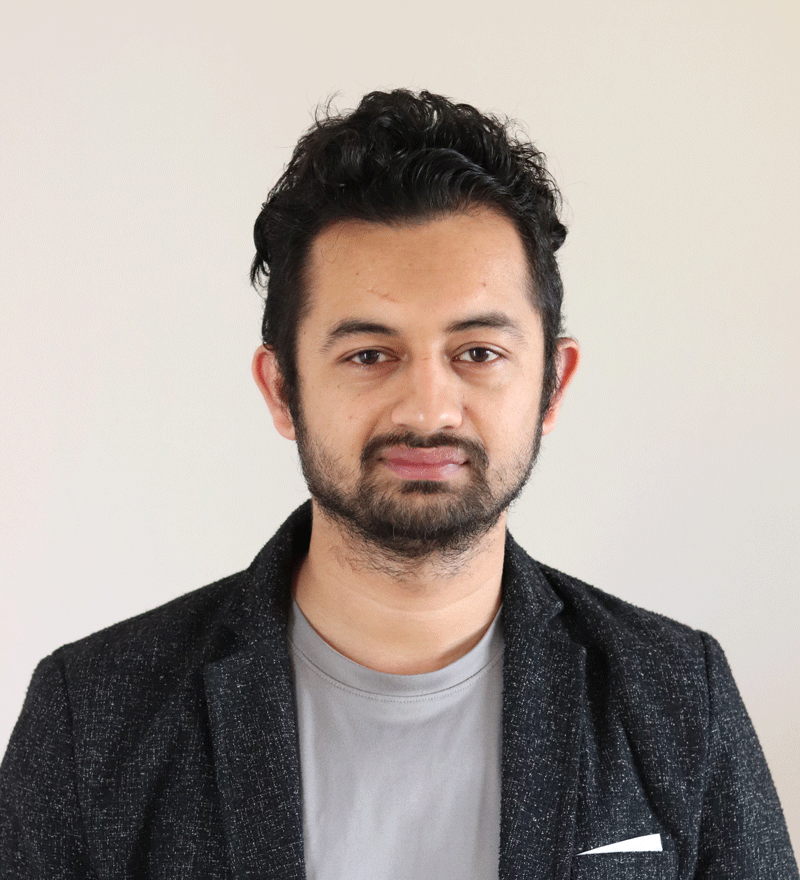
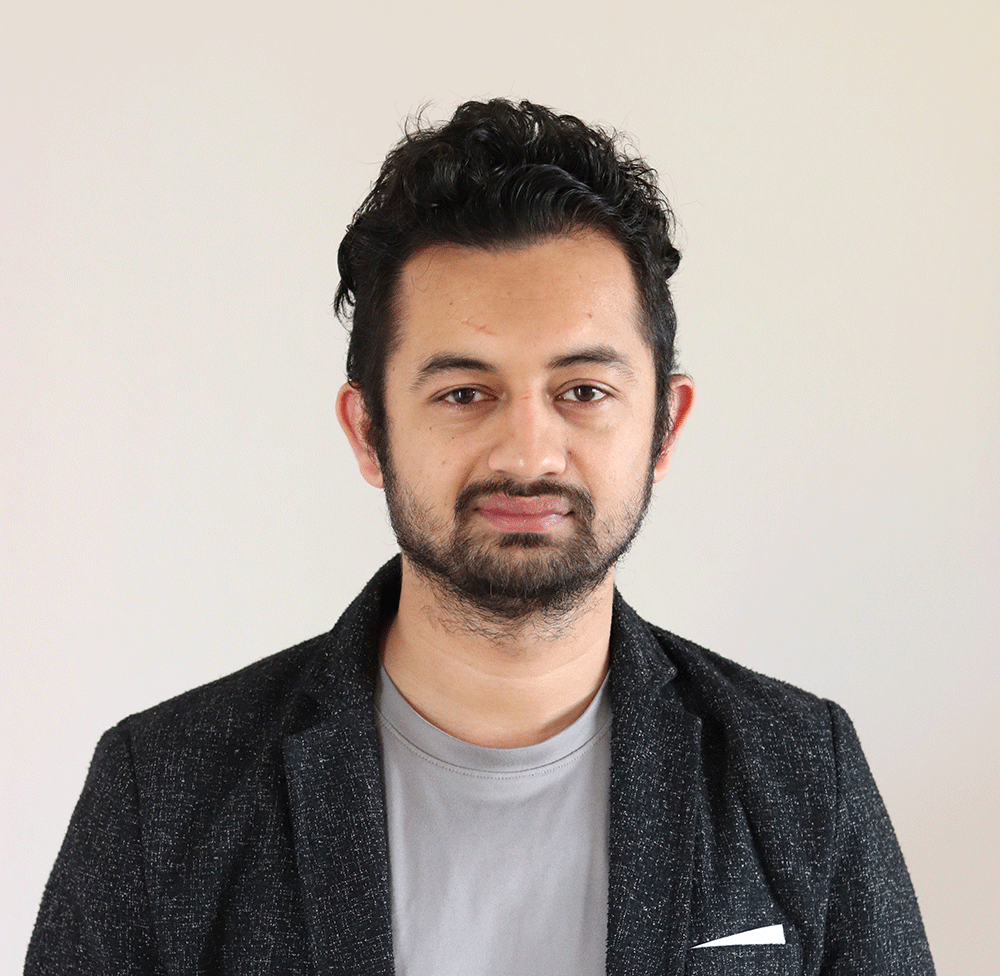
dummy position provided to the team members

Changed region(s): [[0.0, 0.092, 1.0, 1.0]]

diff --git a/index.html b/index.html
@@ -397,7 +397,7 @@
             <img src="img/meshu_web.png" class="card-img-top" alt="...">
             <div class="card-body text-left">
               <h5 class="card-title">Meshu Deb Nath</h5>
-              <h6 class="card-subtitle text-muted">Software Engineer</h6>
+              <h6 class="card-subtitle text-muted">DevOps Engineer</h6>
               <p class="card-text">I am super excited about devOps, microservices, Kubernetes. I hope we will make something bigger in this domain.</p>
                <div class="social-media-list">
                  <ul>
@@ -423,10 +423,10 @@
 
        <div class="col-sm">
         <div class="card team-member">
-          <img src="img/diwakar.png" class="card-img-top" alt="...">
+          <img src="img/diwakar.png"  class="card-img-top" alt="...">
           <div class="card-body text-left">
             <h5 class="card-title">Diwakar Dangal</h5>
-            <h6 class="card-subtitle text-muted">Software Engineer</h6>
+            <h6 class="card-subtitle text-muted">Analyst, Software Engineer</h6>
             <p class="card-text">If you don't give up, you still have a chance, when you are small you have to be very focused and rely on your brain, not in your strength.</p>
              <div class="social-media-list">
                <ul>
@@ -451,10 +451,10 @@
      </div>
      <div class="col-sm">
           <div class="card team-member">
-            <img src="img/jpg.jpg" class="card-img-top" alt="...">
+            <img src="img/rakibul.png" class="card-img-top" alt="...">
             <div class="card-body text-left">
               <h5 class="card-title">Rakibul Islam</h5>
-              <h6 class="card-subtitle text-muted">Software Engineer</h6>
+              <h6 class="card-subtitle text-muted">System Engineer</h6>
               <p class="card-text">Whatever comes to your positive mind, try to do it by your heart.</p>
                <div class="social-media-list extra-padding">
                  <ul>

diff --git a/css/main.css b/css/main.css
@@ -294,10 +294,7 @@ html {
   color: #6a7695;
   padding: 0;
 }
-img.card-img-top {
-  max-height: 350px;
-  min-height: 350px;
-}
+
 /* contact section  */
 .contact-section{
   /* background-image: linear-gradient(120deg, #fdfbfb 0%, #ebedee 100%); */
